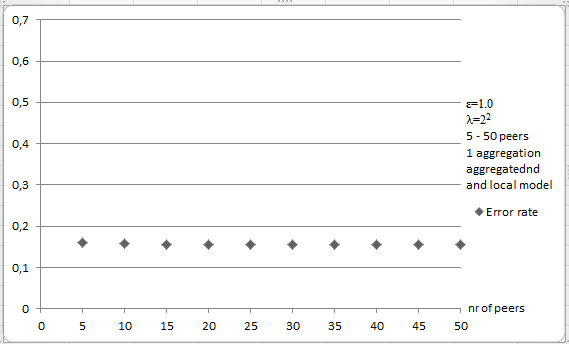
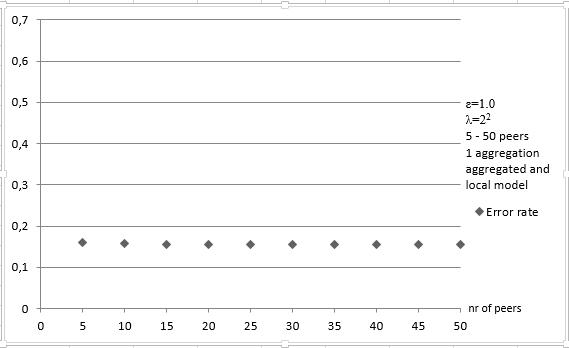
Fixed the peer_range pic, added quite a bit to the importance of epsilon

diff --git a/report/experiment_results.tex b/report/experiment_results.tex
@@ -24,7 +24,7 @@
 \begin{figure}[H]
 	\centering
 	\includegraphics[width=\textwidth]{fig/spambase/epsilon_big_range}
-	\caption{Effect of privacy level}
+	\caption{Effect of privacy level (Spambase)}
 	\label{fig:epsilon_big_range}
 \end{figure}
 
@@ -33,19 +33,19 @@
 	\centering
 	\begin{minipage}{.68\linewidth}
 		\includegraphics[width=\linewidth]{fig/spambase/regularization_extremelyhighepsilon}
-		\captionof{figure}{Effect of regularization, no privacy}
+		\captionof{figure}{Effect of regularization, no privacy (Spambase)}
 		\label{fig:regularization_extremelyhighepsilon}
 	\end{minipage}
 	\hspace{1mm}
 	\begin{minipage}{.68\linewidth}
 		\includegraphics[width=\linewidth]{fig/spambase/regularization_normalepsilon}
-		\captionof{figure}{Effect of regularization, common privacy}
+		\captionof{figure}{Effect of regularization, common privacy (Spambase)}
 		\label{fig:regularization_normalepsilon}
 	\end{minipage}
 	\hspace{1mm}
 	\begin{minipage}{.68\linewidth}
 		\includegraphics[width=\linewidth]{fig/spambase/regularization_lowepsilon}
-		\captionof{figure}{Effect of regularization, high privacy}
+		\captionof{figure}{Effect of regularization, high privacy (Spambase)}
 		\label{fig:regularization_lowepsilon}
 	\end{minipage}
 \end{figure}
@@ -56,19 +56,19 @@
 	\centering
 	\begin{minipage}{.65\linewidth}
 		\includegraphics[width=\linewidth]{fig/spambase/data_limit_test_withoutlocalmodel}
-		\captionof{figure}{$\epsilon = 0.1, \lambda = 2^{-2}$, 10 peers, 1 aggregations. Aggregated model only.}
+		\captionof{figure}{$\epsilon = 0.1, \lambda = 2^{-2}$, 10 peers, 1 aggregations. Aggregated model only. (Spambase)}
 		\label{fig:data_limit_test_withoutlocalmodel}
 	\end{minipage}
 	\hspace{1mm}
 	\begin{minipage}{.65\linewidth}
 		\includegraphics[width=\linewidth]{fig/spambase/data_limit_test_withlocalmodel}
-		\captionof{figure}{$\epsilon = 0.1, \lambda = 2^{-2}$, 10 peers, 1 aggregation. Aggregated and local model.}
+		\captionof{figure}{$\epsilon = 0.1, \lambda = 2^{-2}$, 10 peers, 1 aggregation. Aggregated and local model. (Spambase)}
 		\label{fig:data_limit_test_withlocalmodel}
 	\end{minipage}
 	\hspace{1mm}
 	\begin{minipage}{.65\linewidth}
 		\includegraphics[width=\linewidth]{fig/spambase/data_limit_test_localmodelonly}
-		\captionof{figure}{$\lambda = 2^{-2}$, 10 peers, local model only.}
+		\captionof{figure}{$\lambda = 2^{-2}$, 10 peers, local model only. (Spambase)}
 		\label{fig:data_limit_test_localmodelonly}
 	\end{minipage}
 \end{figure}
@@ -79,7 +79,7 @@
 \begin{figure}[H]
 	\centering
 	\includegraphics[width=\textwidth]{fig/adult/peer_range_constant_group}
-	\caption{Effect of peer numbers.}
+	\caption{Effect of peer numbers. (Adult)}
 	\label{fig:peer_range_constant_group}
 \end{figure}
 
@@ -96,7 +96,7 @@
 		Aggregated, d. privacy & 0,158 & 0.000	 \\
 		Ensemble with both & 0.166 & 0.002 \\
 	\end{tabular}
-	\caption{Variance among peers, Adult}
+	\caption{Variance among peers, (Adult)}
 	\label{table:peer_variance_adult}
 \end{table}      
 
@@ -104,7 +104,7 @@
 \begin{figure}[H]
 	\centering
 	\includegraphics[width=0.8\textwidth]{fig/adult/GroupSizeTest}
-	\caption{Effect of Aggregation Group Sizes.}
+	\caption{Effect of Aggregation Group Sizes.(Adult)}
 	\label{fig:results_group_sizes}
 \end{figure}
 
@@ -117,7 +117,7 @@
 \begin{figure}[H]
 	\centering
 	\includegraphics[width=.8\textwidth]{fig/adult/results_privacy_budget}
-	\caption{Effect of Privacy Budgeting.}
+	\caption{Effect of Privacy Budgeting. (Adult)}
 	\label{fig:results_privacy_budget}
 \end{figure}
 

diff --git a/report/analysis.tex b/report/analysis.tex
@@ -86,6 +86,10 @@ As explained in section \ref{section:differential_privacy}, differential privacy
  
 Figure \ref{fig:epsilon_big_range} shows the effect of the privacy parameter $\epsilon$ in our experiment. We wanted to test the effect of varying the $\epsilon$-value in the range from $2^{-10}$ to $2^9$, especially to find out how the classifier would perform when faced with data with high amount of noise added to it. The positive class rate in the UCI Spambase data set is 0.4, so any error rate at this level is no better than a random classifier. The plot shows how sensitive output is to the values of $\epsilon$.
 
+Our experiments indicate that an ideal range for the $\epsilon$-value seems to be between 0.1 and 1.0 for all datasets. If the value falls below this range, both the error rate and the error variance quickly grows and the classifier becomes unusable. Some of the earlier research by \cite{dwork2008differential} theorized that 0.01 might be suitable in analysis with a need for an extra strong privacy guarantee. In our case that is not a feasible limit, as the error rate at this privacy level is growing towards the class distribution. Other research performed in the literature \cite{pathak2010diffprivhomo,kellaris2013groupingSmoothing,hsu2014economicEpsilon} seem to agree that 0.1 is a natural lower limit.   
+
+Looking at Table \ref{tab:results_measuring_accuracy}, we see that the difference between the our optimal result from Adult at 0.157 with $\epsilon$=1.0 and the high privacy result of 0.163 with $\epsilon$=0.1, is not particularly big. The results of running a big range of epsilon over the Spambase dataset (Figure \ref{fig:epsilon_big_range}), also indicate that there is not much improvement in increasing the $\epsilon$ beyond 1.0. This is interesting, as it suggest there might exist a natural bound on the trade-off between privacy and utility. If a theorem could prove this bound of where there will be no further increase in utility by decreasing the privacy, this would serve as a big breakthrough for the field of differential privacy. To the best of our knowledge however, no such theorem has yet been found. \cite{lee2011epsilonBound} have tried providing such a bound, but their proof is limited to a very specific scenario on a unreasonably simple example database. Nevertheless, their effort suggest that future research might bring more conclusive proof. In our case, we can only report what we have discovered after performing carefully monitored experiments.   
+
 
 \section{The Importance of Data} \label{importance_of_data}
 As can be told from Figure \ref{fig:data_limit_test_localmodelonly}, \ref{fig:data_limit_test_withlocalmodel} and \ref{fig:data_limit_test_localmodelonly}, the amount of data available for each peer is important. The more data a peer have, the greater the chance is that it will make a decent local classifier. 
